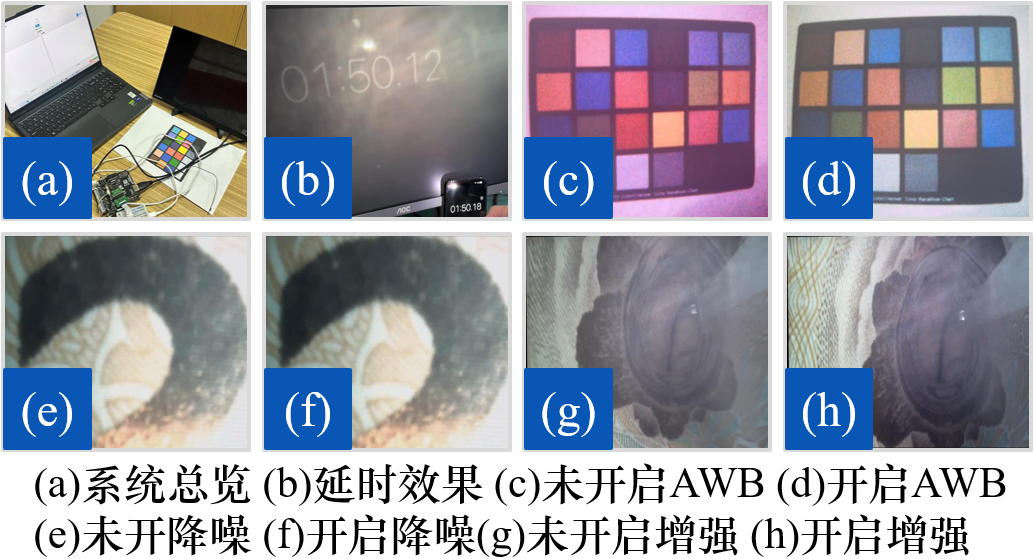
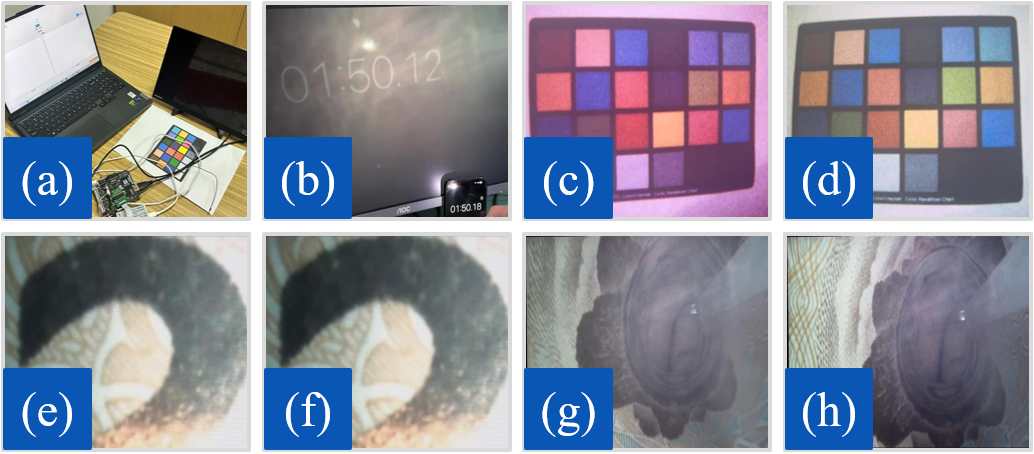
Replace FPGA project image and fix hover border

diff --git a/en/cv/index.html b/en/cv/index.html
@@ -22,7 +22,7 @@
     })();
   </script>
   <link rel="stylesheet" href="/assets/css/style.css?v=20260926-layout">
-  <link rel="stylesheet" href="/assets/css/theme-b.css?v=20260926-b10">
+  <link rel="stylesheet" href="/assets/css/theme-b.css?v=20260926-b11">
 </head>
 <body class="english-page cv-page">
   <header class="site-header"><div class="nav-wrap"><a class="brand" href="/en/">Eric Ye</a><button class="hamburger" aria-label="Menu" aria-expanded="false"><span></span><span></span><span></span></button><nav class="nav" aria-label="Main navigation"><a href="/en/">Home</a><a class="active" href="/en/cv/">CV</a><a href="/en/projects/">Projects</a><a href="/en/publications/">Publications</a><a href="/en/gallery/">Gallery</a></nav><div class="language-switch" aria-label="Language"><a href="/cv/" lang="zh-CN" hreflang="zh-CN">CH</a><span aria-hidden="true">/</span><span class="active" aria-current="page">EN</span></div><button class="theme-toggle" aria-label="Toggle theme"><svg class="icon-sun" viewBox="0 0 24 24"><circle cx="12" cy="12" r="5"/><line x1="12" y1="1" x2="12" y2="3"/><line x1="12" y1="21" x2="12" y2="23"/><line x1="4.22" y1="4.22" x2="5.64" y2="5.64"/><line x1="18.36" y1="18.36" x2="19.78" y2="19.78"/><line x1="1" y1="12" x2="3" y2="12"/><line x1="21" y1="12" x2="23" y2="12"/><line x1="4.22" y1="19.78" x2="5.64" y2="18.36"/><line x1="18.36" y1="5.64" x2="19.78" y2="4.22"/></svg><svg class="icon-moon" viewBox="0 0 24 24" style="display:none"><path d="M21 12.79A9 9 0 1 1 11.21 3 7 7 0 0 0 21 12.79z"/></svg></button></div></header>

diff --git a/en/gallery/index.html b/en/gallery/index.html
@@ -19,7 +19,7 @@
     })();
   </script>
   <link rel="stylesheet" href="/assets/css/style.css?v=20260926-layout">
-  <link rel="stylesheet" href="/assets/css/theme-b.css?v=20260926-b10">
+  <link rel="stylesheet" href="/assets/css/theme-b.css?v=20260926-b11">
 </head>
 <body class="english-page">
   <header class="site-header"><div class="nav-wrap"><a class="brand" href="/en/">Eric Ye</a><button class="hamburger" aria-label="Menu" aria-expanded="false"><span></span><span></span><span></span></button><nav class="nav" aria-label="Main navigation"><a href="/en/">Home</a><a href="/en/cv/">CV</a><a href="/en/projects/">Projects</a><a href="/en/publications/">Publications</a><a class="active" href="/en/gallery/">Gallery</a></nav><div class="language-switch" aria-label="Language"><a href="/gallery/" lang="zh-CN" hreflang="zh-CN">CH</a><span aria-hidden="true">/</span><span class="active" aria-current="page">EN</span></div><button class="theme-toggle" aria-label="Toggle theme"><svg class="icon-sun" viewBox="0 0 24 24"><circle cx="12" cy="12" r="5"/><line x1="12" y1="1" x2="12" y2="3"/><line x1="12" y1="21" x2="12" y2="23"/><line x1="4.22" y1="4.22" x2="5.64" y2="5.64"/><line x1="18.36" y1="18.36" x2="19.78" y2="19.78"/><line x1="1" y1="12" x2="3" y2="12"/><line x1="21" y1="12" x2="23" y2="12"/><line x1="4.22" y1="19.78" x2="5.64" y2="18.36"/><line x1="18.36" y1="5.64" x2="19.78" y2="4.22"/></svg><svg class="icon-moon" viewBox="0 0 24 24" style="display:none"><path d="M21 12.79A9 9 0 1 1 11.21 3 7 7 0 0 0 21 12.79z"/></svg></button></div></header>

diff --git a/en/projects/index.html b/en/projects/index.html
@@ -24,7 +24,7 @@
     })();
   </script>
   <link rel="stylesheet" href="/assets/css/style.css?v=20260926-layout">
-  <link rel="stylesheet" href="/assets/css/theme-b.css?v=20260926-b10">
+  <link rel="stylesheet" href="/assets/css/theme-b.css?v=20260926-b11">
 </head>
 
 <body class="english-page projects-page">
@@ -105,7 +105,7 @@
           </div>
         </div>
 
-        <div class="entry" style="--media-width:440px">
+        <div class="entry" style="--media-width:542px">
           <div class="entry-header">
             <p class="entry-title"><a href="https://github.com/EricYXZ/ti60f225-image-processing-fpga" target="_blank" rel="noopener noreferrer">FPGA Image-Processing Design on Efinix Ti60F225</a></p>
             <span class="date">Nov. 2025</span>
@@ -117,7 +117,7 @@
             <li>Repository: <a class="text-link" href="https://github.com/EricYXZ/ti60f225-image-processing-fpga" target="_blank" rel="noopener noreferrer">GitHub - ti60f225-image-processing-fpga</a></li>
           </ul>
           <div class="project-entry-media project-entry-media--image">
-            <img src="/assets/img/projects/fpga-image-processing-results.png" alt="FPGA image-processing system and experimental results" width="1034" height="559" loading="lazy">
+            <img src="/assets/img/projects/fpga-image-processing-results.png?v=20260926-2" alt="FPGA image-processing system and experimental results" width="1034" height="454" loading="lazy">
           </div>
         </div>
 

diff --git a/projects/index.html b/projects/index.html
@@ -22,7 +22,7 @@
     })();
   </script>
   <link rel="stylesheet" href="/assets/css/style.css?v=20260926-layout">
-  <link rel="stylesheet" href="/assets/css/theme-b.css?v=20260926-b10">
+  <link rel="stylesheet" href="/assets/css/theme-b.css?v=20260926-b11">
 </head>
 
 <body class="projects-page">
@@ -118,7 +118,7 @@
           </div>
         </div>
         
-        <div class="entry" style="--media-width:440px">
+        <div class="entry" style="--media-width:542px">
           <div class="entry-header">
             <p class="entry-title">
               <a href="https://github.com/EricYXZ/ti60f225-image-processing-fpga" target="_blank" rel="noopener noreferrer">2025年嵌赛FPGA创新设计赛道易灵思国三作品</a>
@@ -132,7 +132,7 @@
             <li>项目仓库：<a class="text-link" href="https://github.com/EricYXZ/ti60f225-image-processing-fpga" target="_blank" rel="noopener noreferrer">GitHub - ti60f225-image-processing-fpga</a></li>
           </ul>
           <div class="project-entry-media project-entry-media--image">
-            <img src="/assets/img/projects/fpga-image-processing-results.png" alt="FPGA 图像处理系统与实验效果" width="1034" height="559" loading="lazy">
+            <img src="/assets/img/projects/fpga-image-processing-results.png?v=20260926-2" alt="FPGA 图像处理系统与实验效果" width="1034" height="454" loading="lazy">
           </div>
         </div>
 

diff --git a/assets/css/theme-b.css b/assets/css/theme-b.css
@@ -181,12 +181,22 @@ html.theme-transition body *::after {
 }
 .projects-page .entry:last-child { padding-bottom:24px; }
 .projects-page .entry::before { display:none; }
+.projects-page .entry::after {
+  content:"";
+  position:absolute;
+  z-index:3;
+  inset:0;
+  border:var(--progress-thickness) solid transparent;
+  border-radius:3px;
+  pointer-events:none;
+}
 .projects-page .entry:hover {
   border-color:var(--blue);
   background:var(--paper);
-  box-shadow:inset 0 0 0 calc(var(--progress-thickness) - 1px) var(--blue);
+  box-shadow:none;
   transform:none;
 }
+.projects-page .entry:hover::after { border-color:var(--blue); }
 .projects-page .entry-header {
   display:grid;
   grid-template-columns:minmax(0, 1fr) auto;

diff --git a/en/publications/index.html b/en/publications/index.html
@@ -24,7 +24,7 @@
     })();
   </script>
   <link rel="stylesheet" href="/assets/css/style.css?v=20260926-layout">
-  <link rel="stylesheet" href="/assets/css/theme-b.css?v=20260926-b10">
+  <link rel="stylesheet" href="/assets/css/theme-b.css?v=20260926-b11">
 </head>
 <body class="english-page">
   <header class="site-header">

diff --git a/cv/index.html b/cv/index.html
@@ -22,7 +22,7 @@
     })();
   </script>
   <link rel="stylesheet" href="/assets/css/style.css?v=20260926-layout">
-  <link rel="stylesheet" href="/assets/css/theme-b.css?v=20260926-b10">
+  <link rel="stylesheet" href="/assets/css/theme-b.css?v=20260926-b11">
 </head>
 <body class="cv-page">
   <header class="site-header">

diff --git a/publications/index.html b/publications/index.html
@@ -23,7 +23,7 @@
     })();
   </script>
   <link rel="stylesheet" href="/assets/css/style.css?v=20260926-layout">
-  <link rel="stylesheet" href="/assets/css/theme-b.css?v=20260926-b10">
+  <link rel="stylesheet" href="/assets/css/theme-b.css?v=20260926-b11">
 </head>
 <body>
   <header class="site-header">

diff --git a/en/index.html b/en/index.html
@@ -33,7 +33,7 @@
     })();
   </script>
   <link rel="stylesheet" href="/assets/css/style.css?v=20260926-layout">
-  <link rel="stylesheet" href="/assets/css/theme-b.css?v=20260926-b10">
+  <link rel="stylesheet" href="/assets/css/theme-b.css?v=20260926-b11">
 </head>
 
 <body class="english-home">

diff --git a/gallery/index.html b/gallery/index.html
@@ -22,7 +22,7 @@
     })();
   </script>
   <link rel="stylesheet" href="/assets/css/style.css?v=20260926-layout">
-  <link rel="stylesheet" href="/assets/css/theme-b.css?v=20260926-b10">
+  <link rel="stylesheet" href="/assets/css/theme-b.css?v=20260926-b11">
 </head>
 
 <body>

diff --git a/index.html b/index.html
@@ -36,7 +36,7 @@
     })();
   </script>
   <link rel="stylesheet" href="/assets/css/style.css?v=20260926-layout">
-  <link rel="stylesheet" href="/assets/css/theme-b.css?v=20260926-b10">
+  <link rel="stylesheet" href="/assets/css/theme-b.css?v=20260926-b11">
 </head>
 
 <body>
